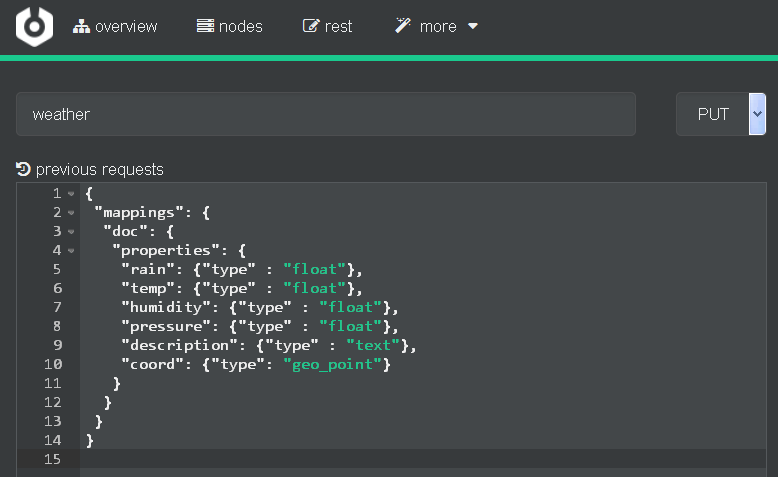
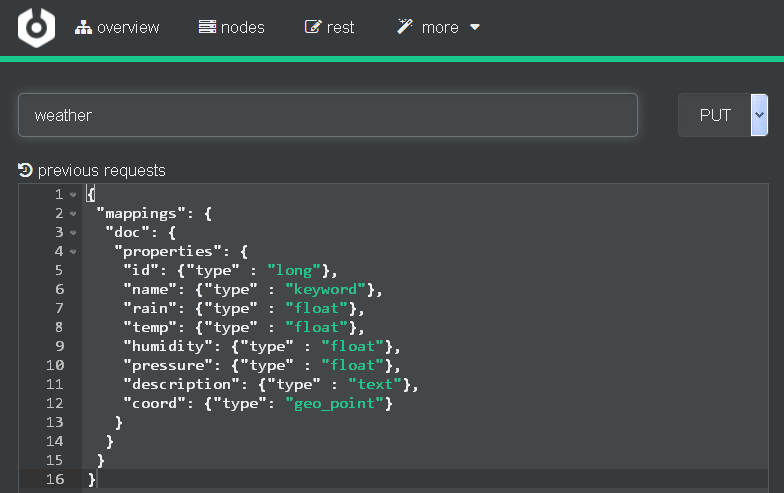
Rename elk loading data to example

diff --git a/elk/weather.md b/elk/weather.md
@@ -1,6 +1,6 @@
 # Load Data into Elasticsearch
 
-[OpenWeatherMap](https://openweathermap.org/) provides the current and forecast weather information. Here, we'll use logstash to ingest data from OpenWeatherMap into elasticsearch.
+For demonstration purpose, we will feed weather data from [OpenWeatherMap](https://openweathermap.org/) into Elasticsearch. Here, we'll use logstash to ingest data from OpenWeatherMap into elasticsearch.
 
 
 ## Prerequisites
@@ -18,7 +18,7 @@ Enter the index name "_weather_" and select "_PUT_". Copy and paste the followin
   "doc": {
    "properties": {
     "id": {"type" : "long"},
-    "name": {"type" : "text"},
+    "name": {"type" : "keyword"},
     "rain": {"type" : "float"},
     "temp": {"type" : "float"},
     "humidity": {"type" : "float"},
@@ -118,15 +118,28 @@ output {
 }
 ```
 
-In this example, the input section defines the http poller to retrieve the current weather from OpenWeatherMap every 15 minutes. Due to the free service, it allows up to 50 stations around the center point. The center in the example is located at Bangkok. The filter section defines the transformation of OpenWeaterMap data for indexing in ELK cluster. Shortly, it extracts relevant fields from nested structure and put them into the root and creates timestamp. The output section load each station data into Elasticsearch. Each document has an ID set to stationID_timestamp. Note that these data is updated with 30-min interval. So, our 15-min polling is enough.
+In this example, the input section defines the http poller to retrieve the current weather from OpenWeatherMap every 15 minutes. Due to the free service, it allows up to 50 stations around the center point, and the data is from last hour. The center in the example is located at Bangkok. Several [input plugins](https://www.elastic.co/guide/en/logstash/current/input-plugins.html) are available.
+
+The filter section defines the transformation of OpenWeaterMap data for indexing in ELK cluster. Shortly, it extracts relevant fields from nested structure and put them into the root and creates timestamp. The output section load each station data into Elasticsearch. Each document has an ID set to stationID_timestamp. Note that these data is updated with 30-min interval. So, our 15-min polling is enough.
 
 ## 4. Run logstash
 
-Run the following command. Keep it running in background.
+Run the following command. Keep it running.
 
 ```shell
-/opt/logstash/bin/logstash -w 1 -f weather.conf &
+/opt/logstash/bin/logstash -w 1 -f weather.conf
 ```
-After 15 min, the first set of data will be injected into Elasticsearch.
+After 15 min, data will continuously be injected into Elasticsearch.
 
    <img src="doc_count.png" width="150">
+
+## 5. Explore and visualize data
+
+On the cluster general information page, click on the Kibana URL. From Kibana page, create an index pattern and start discovering and visualizing data.
+
+   <img src="weather_discover.png" width="300">
+
+
+User may create a grafana dashboard as shown below.
+
+   <img src="grafana_temperature.png" width="300">

diff --git a/index.md b/index.md
@@ -17,11 +17,14 @@ This section provides a step-by-stop from launching a cluster to training and de
 5. [Train a Machine Learning Model with Jupyter Notebook](jupyter/jupyter.md)
 6. [Terminate Spark Cluster after Use](terminate/terminate.md)
 
-## Storing and exploring data with ELK stack 
+## Storing and exploring data with ELK stack
 1. [Launch an ELK Cluster](elk/launchcluster.md)
+2. [Example Usage](elk/weather.md)
+<!--
 2. [Load Data](elk/loaddata.md)
 3. [Explore Data with Kibana](elk/kibana.md)
 4. [Create a Dashbard in Grafana](elk/grafana.md)
+-->
 
 ## Specific Tasks
 - [Running Integrated Meta-omic Pipeline (IMP) for Bioinformatic Analysis](imp/imp.md)
